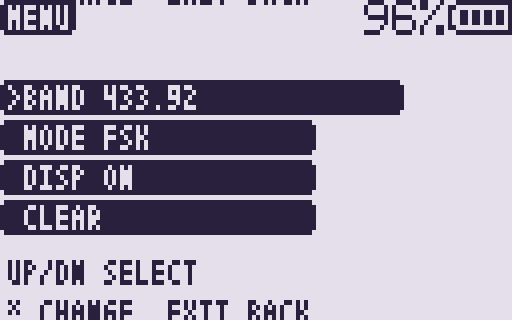
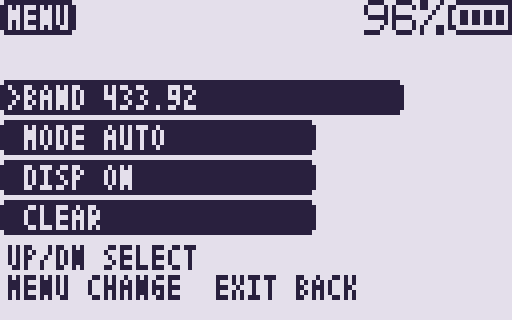
Tweaks to menu

diff --git a/tpmsrx_app.c b/tpmsrx_app.c
@@ -45,6 +45,10 @@ void *memset(void *d, int c, size_t n)
 #define MENU_MODE      1u
 #define MENU_DISP      2u
 #define MENU_CLR       3u
+#define DISP_OFF       1u
+#define DISP_TMO       2u
+#define DISP_IDLE_MS   10000u
+#define BATT_RESERVE   48u
 
 typedef struct {
     uint32_t id;
@@ -58,14 +62,15 @@ typedef struct {
 typedef struct {
     uint8_t band433;
     uint8_t pref;     /* PREF_FSK / PREF_OOK / PREF_AUTO */
+    uint8_t disp;     /* DISP_OFF / DISP_TMO */
 } app_cfg_t;
 
 static struct {
     const app_api_t *A;
-    uint8_t prevKey, led, nRows, refresh, menu, menuSel, dispOff, path;
+    uint8_t prevKey, led, nRows, refresh, menu, menuSel, asleep, path;
     uint16_t ledCnt, keyCnt;
     int16_t rssi;
-    uint32_t autoAt, lastHit;
+    uint32_t autoAt, lastHit, lastKey;
     app_cfg_t cfg;
     row_t *rows;
 } g;
@@ -204,6 +209,7 @@ static void drawStatus(const char *ui)
 {
     char str[20];
     char *o;
+    unsigned width;
     g.A->status_clear();
     g.A->draw_battery();
     g.A->print_inverse(ui + (g.menu ? T_MENU : T_TITLE), 2, 0, true, true,
@@ -212,7 +218,12 @@ static void drawStatus(const char *ui)
     *o++ = ' ';
     o = put(o, modeLabel(ui));
     *o = '\0';
-    g.A->print_tiny(str, 28, 1, true, false);
+    width = (unsigned)(o - str) * 4u;
+    /* 22 px clears the title capsule. 48 px covers the battery icon plus text. */
+    if (width + 22u + BATT_RESERVE <= 128u)
+        g.A->print_tiny(str, (uint8_t)(128u - BATT_RESERVE - width), 1, true, false);
+    else
+        g.A->print_tiny(str, 2, 1, false, true);
 }
 
 static void drawMenu(const char *ui)
@@ -231,16 +242,17 @@ static void drawMenu(const char *ui)
             else if (g.cfg.pref == PREF_OOK) o = put(o, ui + T_OOK);
             else o = put(o, ui + T_FSK);
         } else if (i == MENU_DISP)
-            o = put(o, ui + (g.dispOff ? T_OFF : T_ON));
+            o = put(o, ui + (g.cfg.disp == DISP_OFF ? T_OFF : T_TMO));
         *o = '\0';
         /* Capsules like CW Keyer help: selected row is the full-width mark. */
         g.A->print_inverse(str, 2, (uint8_t)(i + 1u), false, true,
                            (uint8_t)(i == g.menuSel ? 100u : 78u));
     }
+    /* Body is 56 px. A 6 px glyph at y=47 ends at pixel 52. */
     o = put(str, ui + T_HELP1);
-    tiny(str, 2, 44, o);
+    tiny(str, 2, 41, o);
     o = put(str, ui + T_HELP2);
-    tiny(str, 2, 52, o);
+    tiny(str, 2, 47, o);
 }
 
 __attribute__((noinline))
@@ -250,7 +262,7 @@ static void draw(const char *ui)
     char *o;
     uint32_t now = g.A->ticks_ms();
 
-    if (g.dispOff && !g.menu) {
+    if (g.asleep && !g.menu) {
         g.A->display_clear();
         g.A->status_clear();
         g.A->blit_status();
@@ -315,8 +327,15 @@ static void menuChange(dectpms_t *dec)
             cyclePref(dec);
             break;
         case MENU_DISP:
-            g.dispOff ^= 1u;
-            if (g.dispOff) g.menu = 0;
+            if (g.cfg.disp == DISP_OFF) {
+                g.cfg.disp = DISP_TMO;
+                g.asleep = 0;
+                g.lastKey = g.A->ticks_ms();
+            } else {
+                g.cfg.disp = DISP_OFF;
+                g.asleep = 1;
+                g.menu = 0;
+            }
             break;
         case MENU_CLR:
             g.nRows = 0;
@@ -328,9 +347,11 @@ static void menuChange(dectpms_t *dec)
 
 static bool handleKey(uint8_t key, dectpms_t *dec)
 {
-    if (g.dispOff && !g.menu) {
+    g.lastKey = g.A->ticks_ms();
+    if (g.asleep && !g.menu) {
         if (key == APP_KEY_EXIT) return true;
-        g.dispOff = 0;
+        g.asleep = 0;
+        if (g.cfg.disp == DISP_OFF) g.cfg.disp = DISP_TMO;
         if (key == APP_KEY_0) return false; /* toggle consumed as wake */
         /* fall through so other keys still act */
     }
@@ -344,11 +365,11 @@ static bool handleKey(uint8_t key, dectpms_t *dec)
             g.menuSel = (uint8_t)n;
             return false;
         }
-        if (key == APP_KEY_EXIT || key == APP_KEY_MENU) {
+        if (key == APP_KEY_EXIT) {
             g.menu = 0;
             return false;
         }
-        if (key == APP_KEY_STAR || key == APP_KEY_2 || key == APP_KEY_5)
+        if (key == APP_KEY_MENU || key == APP_KEY_STAR || key == APP_KEY_2 || key == APP_KEY_5)
             menuChange(dec);
         return false;
     }
@@ -369,12 +390,21 @@ static bool handleKey(uint8_t key, dectpms_t *dec)
             cyclePref(dec);
             break;
         case APP_KEY_0:
-            g.dispOff = 1;
+            g.cfg.disp = DISP_OFF;
+            g.asleep = 1;
             break;
         default:
             break;
     }
     return false;
+}
+
+static bool serviceDisp(void)
+{
+    if (g.cfg.disp != DISP_TMO || g.menu || g.asleep) return false;
+    if ((uint32_t)(g.A->ticks_ms() - g.lastKey) < DISP_IDLE_MS) return false;
+    g.asleep = 1;
+    return true;
 }
 
 static void serviceAuto(dectpms_t *dec)
@@ -398,6 +428,7 @@ static void listen(const char *ui)
     bool wantUi = true;
     g.autoAt = g.A->ticks_ms();
     g.lastHit = 0;
+    g.lastKey = g.autoAt;
 
     for (;;) {
         while ((int32_t)(clk() - next) < 0) {}
@@ -410,7 +441,7 @@ static void listen(const char *ui)
             g.led = 2u;
             g.ledCnt = 0;
             g.A->led(true);
-            wantUi = !g.dispOff;
+            wantUi = !g.asleep;
             dectpms_rearm(&dec);
         }
 
@@ -425,6 +456,7 @@ static void listen(const char *ui)
         }
         g.keyCnt = 0;
         serviceAuto(&dec);
+        if (serviceDisp()) wantUi = true;
 
         uint8_t key = g.A->get_key();
         bool keyUi = key != g.prevKey && key != APP_KEY_INVALID;
@@ -434,14 +466,14 @@ static void listen(const char *ui)
             wantUi = true;
         }
 
-        if (wantUi || (!g.dispOff && ++g.refresh >= REFRESH_POLLS)) {
+        if (wantUi || (!g.asleep && ++g.refresh >= REFRESH_POLLS)) {
             g.refresh = 0;
-            if (!g.dispOff || g.menu) g.rssi = g.A->rssi_dbm();
+            if (!g.asleep || g.menu) g.rssi = g.A->rssi_dbm();
             g.A->battery_sample();
             draw(ui);
             g.A->blit_status();
             g.A->blit_full();
-            if (g.dispOff && !g.menu) g.A->backlight_update();
+            if (g.asleep && !g.menu) g.A->backlight_update();
             else g.A->backlight_on();
             wantUi = false;
             next = clk() + CYC_PER_SAMPLE;
@@ -463,7 +495,8 @@ void app_main(const app_api_t *api)
     g.prevKey = APP_KEY_INVALID;
     g.nRows = 0;
     g.menu = 0;
-    g.dispOff = 0;
+    g.asleep = 0;
+    g.cfg.disp = DISP_TMO;
     api->led(false);
     api->asset_read(0, ui, UI_SIZE);
 
@@ -476,10 +509,12 @@ void app_main(const app_api_t *api)
         g.cfg.band433 = cfg[1] ? 1u : 0u;
         if (cfg[0] == CFG_MAGIC && cfg[2] <= PREF_AUTO) g.cfg.pref = cfg[2];
         else g.cfg.pref = cfg[2] ? PREF_OOK : PREF_FSK;
+        if (cfg[0] == CFG_MAGIC && cfg[3] == DISP_OFF) g.cfg.disp = DISP_OFF;
     } else {
         g.cfg.band433 = 1u;
         g.cfg.pref = PREF_FSK;
     }
+    if (g.cfg.disp == DISP_OFF) g.asleep = 1;
     g.path = (g.cfg.pref == PREF_OOK) ? TPMS_MODE_OOK : TPMS_MODE_FSK;
 
     applyRf();
@@ -495,6 +530,6 @@ void app_main(const app_api_t *api)
     cfg[0] = CFG_MAGIC;
     cfg[1] = g.cfg.band433;
     cfg[2] = g.cfg.pref;
-    cfg[3] = 0;
+    cfg[3] = g.cfg.disp;
     api->cfg_save(cfg, 4);
 }

diff --git a/gen_assets.py b/gen_assets.py
@@ -26,10 +26,10 @@ UI = [
     ("T_MODE", "MODE"),
     ("T_DISP", "DISP"),
     ("T_CLR", "CLEAR"),
-    ("T_ON", "ON"),
     ("T_OFF", "OFF"),
+    ("T_TMO", "10s"),
     ("T_HELP1", "UP/DN SELECT"),
-    ("T_HELP2", "* CHANGE  EXIT BACK"),
+    ("T_HELP2", "MENU CHANGE  EXIT BACK"),
 ]
 a = Assets("TPMS_RX")
 ui_size = 0

diff --git a/README.md b/README.md
@@ -18,7 +18,7 @@ model, id, pressure, temperature, RSSI, and age. There is no packet history.
 - Band: **315.00** or **433.92** MHz.
 - Demod: **FSK**, **OOK**, or **AUTO** (dwells ~2.5 s each; a decode holds the
   path for 10 s).
-- Options menu (`MENU`) and a display-off key for battery saving.
+- Options menu (`MENU`). The display blanks after 10 seconds, or stays off.
 - Receive only: the app never transmits.
 
 ## Requirements
@@ -41,10 +41,10 @@ model, id, pressure, temperature, RSSI, and age. There is no packet history.
 
 | Key | Action |
 |---|---|
-| `MENU` | Open or close the options menu |
+| `MENU` | Open the options menu. Inside the menu, cycle the selected item |
 | `2` | Toggle 315.00 / 433.92 MHz |
 | `*` | Cycle demod: FSK → OOK → AUTO |
-| `0` | Blank the LCD and let the backlight time out. Any key wakes; `EXIT` still quits |
+| `0` | Blank the LCD now (display off) and let the backlight time out. Any key wakes into the 10 second timeout. `EXIT` still quits |
 | `EXIT` | Quit (from the listen screen) or close the menu |
 
 ### Options menu
@@ -53,15 +53,20 @@ model, id, pressure, temperature, RSSI, and age. There is no packet history.
 |---|---|
 | `BAND` | `315.00` / `433.92` |
 | `MODE` | `FSK` / `OOK` / `AUTO` |
-| `DISP` | `ON` / `OFF` |
+| `DISP` | `OFF` / `10s` (blank 10 seconds after the last key) |
 | `CLEAR` | Wipe the seven live rows |
 
-`UP` / `DOWN` (UV-K1: nav) move the selection; `*` / `2` / `5` change the item.
-A valid decode blinks the green LED twice (also while the display is off).
+`UP` / `DOWN` (UV-K1: nav) move the selection. `MENU`, `*`, `2`, or `5` change the item. `EXIT` closes the menu.
+A valid decode blinks the green LED twice (also while the display is blank).
 
 ## Screen
 
-Status bar: title `TPMS` (or `MENU`), then band and mode, then battery.
+Status bar: title `TPMS` (or `MENU`) on the left, band and mode just left of the battery.
+
+![Waiting for a sensor](docs/waiting.png)
+
+![Options menu](docs/menu.png)
+
 
 | Mode setting | Status text |
 |---|---|
